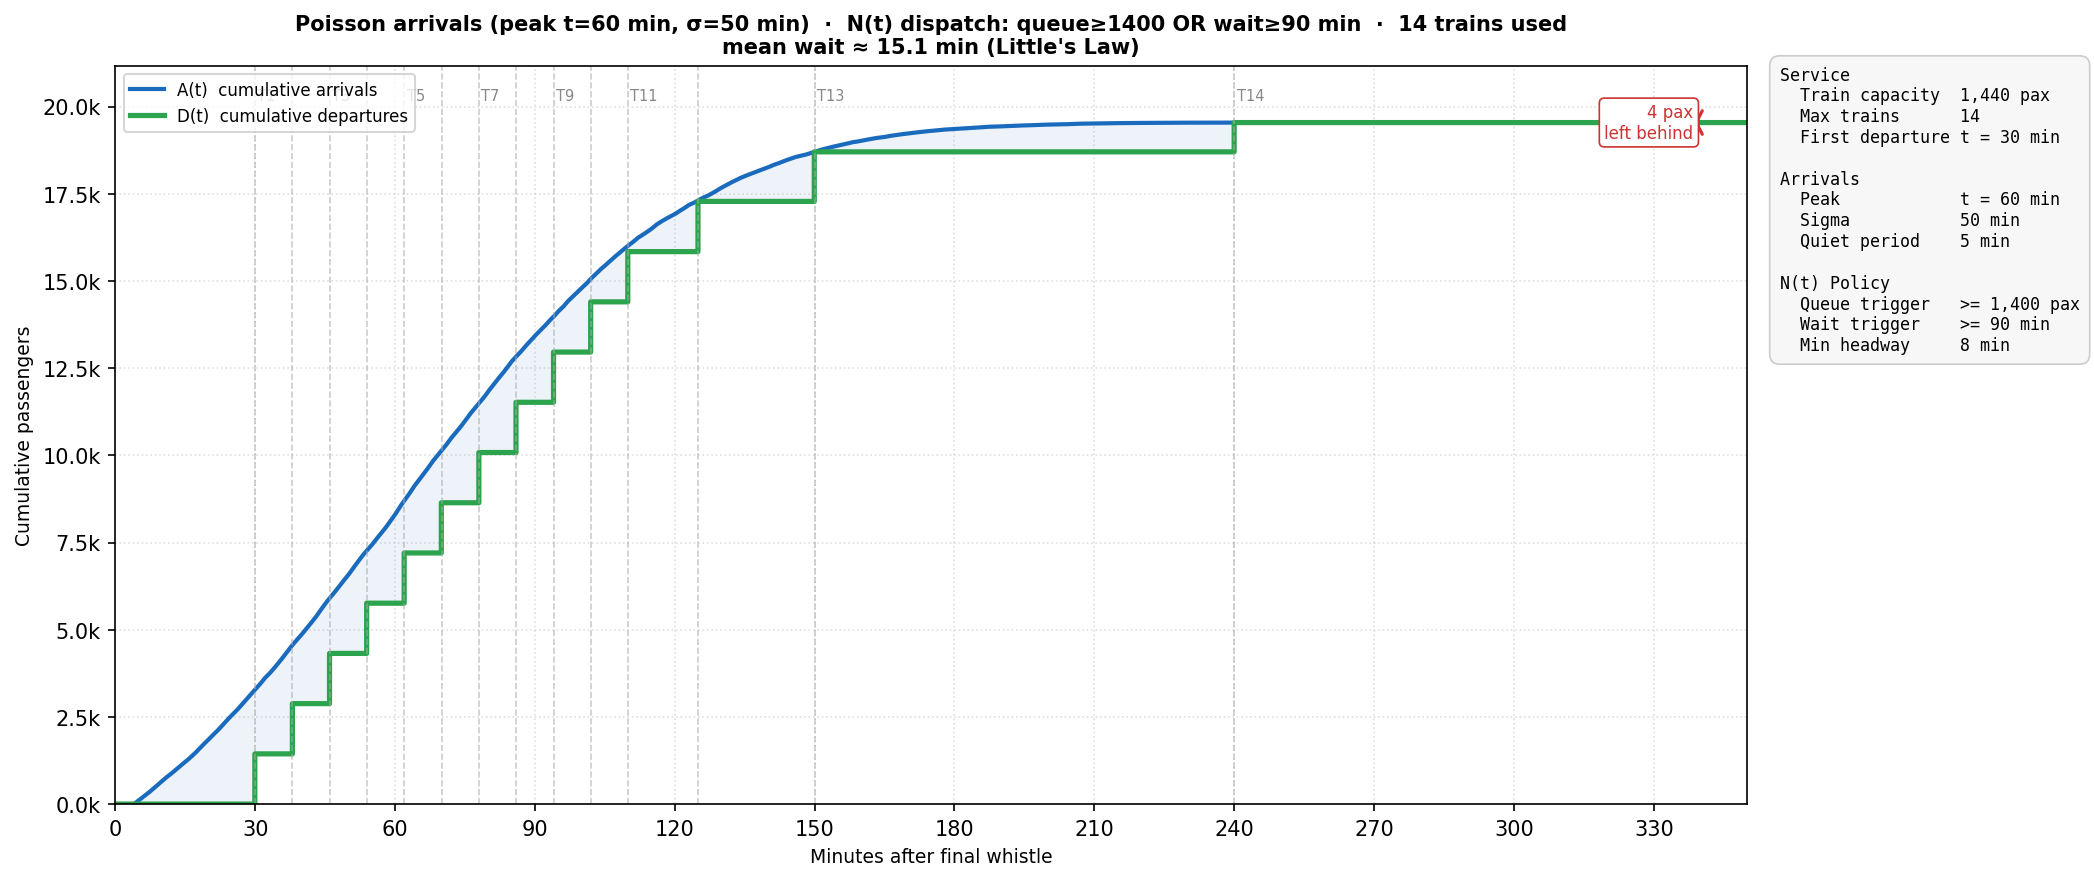
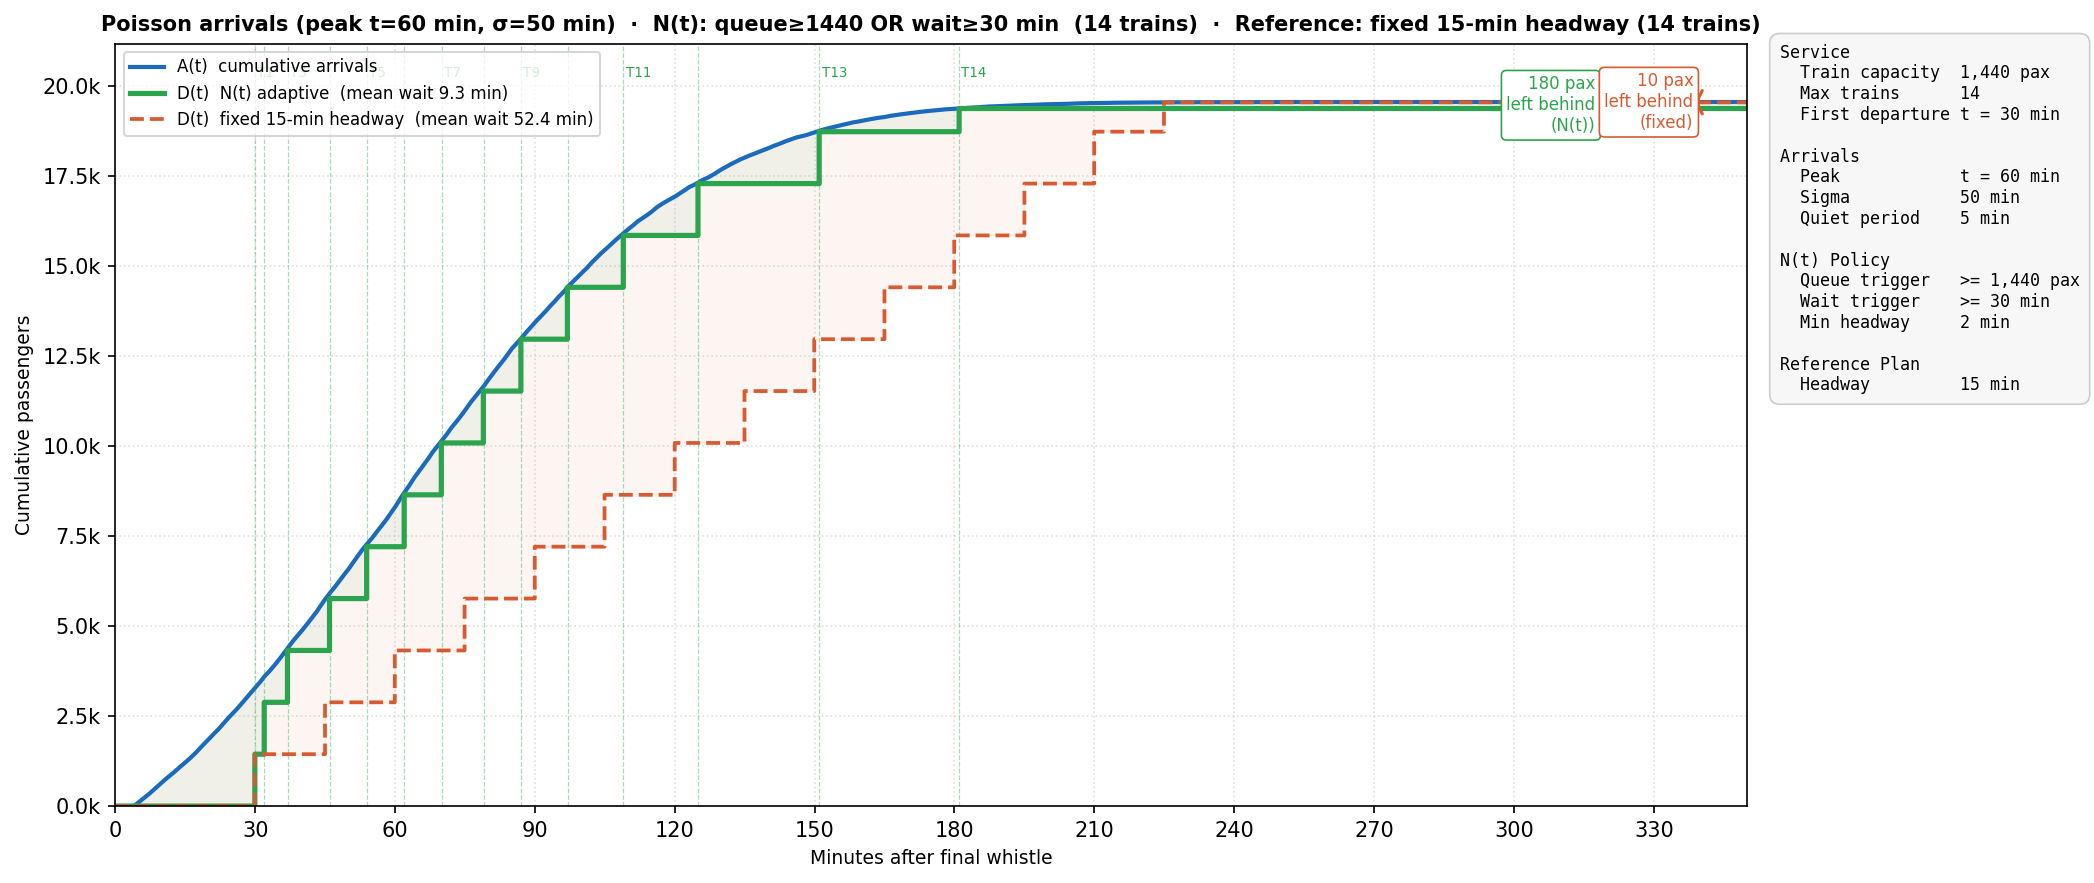
added comparison to fixed departures technique

diff --git a/foxboro_MG1_simulation.py b/foxboro_MG1_simulation.py
@@ -22,9 +22,12 @@ ARRIVAL_SIGMA     = 50     # spread (std dev) of the arrival surge in minutes
 ARRIVAL_QUIET_PERIOD  = 5      # minutes of near-zero arrivals right after whistle
 
 # N(t) dispatch policy
-NT_CAPACITY_THRESHOLD = 1400   # send a train if queue >= this many passengers
-NT_WAIT_THRESHOLD     = 90     # send a train if oldest passenger has waited >= this many minutes
-NT_MIN_HEADWAY        = 8      # minimum minutes between consecutive dispatches
+NT_CAPACITY_THRESHOLD = 1440   # send a train if queue >= this many passengers
+NT_WAIT_THRESHOLD     = 30     # send a train if oldest passenger has waited >= this many minutes
+NT_MIN_HEADWAY        = 2      # minimum minutes between consecutive dispatches
+
+# Fixed-headway reference (original plan)
+FIXED_HEADWAY         = 15     # minutes between trains in original plan
 
 # Simulation / plot
 RANDOM_SEED           = 42
@@ -34,7 +37,8 @@ OUTPUT_QUEUE_DEPTH    = "foxboro_queue_depth.png"
 
 # Colors
 COLOR_ARRIVAL         = "#1a6bbd"
-COLOR_DEPARTURE       = "#2ca44e"
+COLOR_NT              = "#2ca44e"
+COLOR_FIXED           = "#d85a30"
 COLOR_TRAIN_LINE      = "#aaaaaa"
 
 # =============================================================================
@@ -49,23 +53,26 @@ T                = np.linspace(0, T_MAX, 4000)
 # SIMULATION
 # =============================================================================
 
-def simulate():
+def draw_arrivals():
+    """Draw one Poisson arrival trace, shared by both simulations."""
     rng       = np.random.default_rng(RANDOM_SEED)
     t_minutes = np.arange(0, T_MAX + 1, dtype=float)
-
-    # Poisson rate lambda(t): normal surge shape scaled to expected total
     raw_shape = norm.pdf(t_minutes, ARRIVAL_PEAK, ARRIVAL_SIGMA)
     lam_t     = raw_shape / raw_shape.sum() * TOTAL_PASSENGERS
+    arrivals  = rng.poisson(lam_t)
+    arrivals[:ARRIVAL_QUIET_PERIOD] = 0
+    return arrivals
 
-    arrivals_per_min = rng.poisson(lam_t)
-    arrivals_per_min[:ARRIVAL_QUIET_PERIOD] = 0
+def simulate_nt(arrivals_per_min):
+    """N(t) adaptive dispatch policy."""
+    t_minutes = np.arange(0, T_MAX + 1, dtype=float)
 
     queue             = 0
     oldest_wait       = 0
     total_boarded     = 0
     trains_dispatched = 0
     last_dispatch     = -999
-    dispatch_log      = []   # list of (minute, cumulative_boarded)
+    dispatch_log      = []
     cum_arr_sim       = np.zeros(len(t_minutes))
 
     for tick in range(len(t_minutes)):
@@ -90,7 +97,7 @@ def simulate():
             oldest_wait        = 0
             dispatch_log.append((tick, total_boarded))
 
-    # A(t): interpolate cumulative arrivals onto fine grid
+    # A(t): interpolate — arrivals accumulate continuously
     cum_arr = np.interp(T, t_minutes, cum_arr_sim)
 
     # D(t): true step function — no interpolation
@@ -101,6 +108,31 @@ def simulate():
     mean_wait = np.trapezoid(np.maximum(cum_arr - cum_dep, 0), T) / max(total_boarded, 1)
 
     return cum_arr, cum_dep, dispatch_log, mean_wait, trains_dispatched
+
+def simulate_fixed(arrivals_per_min):
+    """Fixed-headway reference: one train every FIXED_HEADWAY min from FIRST_DEPARTURE."""
+    t_minutes     = np.arange(0, T_MAX + 1, dtype=float)
+    fixed_departs = [FIRST_DEPARTURE + i * FIXED_HEADWAY for i in range(NUM_TRAINS)]
+    cum_arr_sim   = np.cumsum(arrivals_per_min).astype(float)
+
+    total_boarded = 0
+    dispatch_log  = []
+
+    for d_time in fixed_departs:
+        tick    = int(d_time)
+        arrived = cum_arr_sim[min(tick, len(cum_arr_sim) - 1)]
+        boarded = min(arrived - total_boarded, TRAIN_CAPACITY)
+        total_boarded += boarded
+        dispatch_log.append((d_time, total_boarded))
+
+    cum_dep = np.zeros(len(T))
+    for d_time, cum_b in dispatch_log:
+        cum_dep[T >= d_time] = cum_b
+
+    cum_arr   = np.interp(T, t_minutes, cum_arr_sim)
+    mean_wait = np.trapezoid(np.maximum(cum_arr - cum_dep, 0), T) / max(total_boarded, 1)
+
+    return cum_dep, dispatch_log, mean_wait
 
 # =============================================================================
 # PLOTTING
@@ -122,6 +154,9 @@ def add_param_box(ax):
         ("  Queue trigger",   f">= {NT_CAPACITY_THRESHOLD:,} pax"),
         ("  Wait trigger",    f">= {NT_WAIT_THRESHOLD} min"),
         ("  Min headway",     f"{NT_MIN_HEADWAY} min"),
+        ("",                  ""),
+        ("Reference Plan",    ""),
+        ("  Headway",         f"{FIXED_HEADWAY} min"),
     ]
     text = "\n".join(f"{label:<18}{value}" for label, value in lines)
     ax.text(
@@ -132,37 +167,49 @@ def add_param_box(ax):
                   edgecolor="#cccccc", linewidth=0.8)
     )
 
-
-def plot_cumulative(cum_arr, cum_dep, dispatch_log, mean_wait, n_trains):
-    fig, ax = plt.subplots(figsize=(15, 6), facecolor="#ffffff")
-
-    ax.fill_between(T, cum_arr, cum_dep,
-                    where=(cum_arr >= cum_dep),
-                    color=COLOR_ARRIVAL, alpha=0.08)
-    ax.plot(T, cum_arr, color=COLOR_ARRIVAL,   lw=2,   label="A(t)  cumulative arrivals")
-    ax.step(T, cum_dep, color=COLOR_DEPARTURE, lw=2.5, label="D(t)  cumulative departures",
-            where="pre")
-
-    ylim_top = TOTAL_PASSENGERS * 1.05
-    for i, (td, _) in enumerate(dispatch_log):
-        ax.axvline(td, color=COLOR_TRAIN_LINE, lw=0.8, ls="--", alpha=0.6)
-        if i % 2 == 0 or i == len(dispatch_log) - 1:
-            ax.text(td + 0.5, ylim_top * 0.97, f"T{i+1}",
-                    fontsize=7, color="#888888", ha="left", va="top")
-            
-    # Callout: passengers left behind at end of service window
+def add_left_behind_callout(ax, cum_arr, cum_dep, color, x_frac, label):
     left_behind = int(round(cum_arr[-1] - cum_dep[-1]))
     if left_behind > 0:
-        y_arr = cum_arr[-1]
-        y_dep = cum_dep[-1]
-        x_callout = T_MAX * 0.97
+        y_arr     = cum_arr[-1]
+        y_dep     = cum_dep[-1]
+        x_callout = T_MAX * x_frac
         ax.annotate("", xy=(x_callout, y_dep), xytext=(x_callout, y_arr),
-                    arrowprops=dict(arrowstyle="<->", color="#cc3333", lw=1.5))
+                    arrowprops=dict(arrowstyle="<->", color=color, lw=1.5))
         ax.text(x_callout - 1, (y_arr + y_dep) / 2,
-                f"{left_behind:,} pax\nleft behind",
-                fontsize=8, color="#cc3333", ha="right", va="center",
+                f"{left_behind:,} pax\nleft behind\n({label})",
+                fontsize=8, color=color, ha="right", va="center",
                 bbox=dict(boxstyle="round,pad=0.3", facecolor="white",
-                          edgecolor="#cc3333", linewidth=0.8))
+                          edgecolor=color, linewidth=0.8))
+
+def plot_cumulative(cum_arr, cum_dep_nt, dispatch_log_nt, mean_wait_nt, n_trains_nt,
+                    cum_dep_fixed, dispatch_log_fixed, mean_wait_fixed):
+    fig, ax = plt.subplots(figsize=(15, 6), facecolor="#ffffff")
+
+    ylim_top = TOTAL_PASSENGERS * 1.05
+
+    # Shaded gaps
+    ax.fill_between(T, cum_arr, cum_dep_nt,
+                    where=(cum_arr >= cum_dep_nt),
+                    color=COLOR_NT, alpha=0.06)
+    ax.fill_between(T, cum_arr, cum_dep_fixed,
+                    where=(cum_arr >= cum_dep_fixed),
+                    color=COLOR_FIXED, alpha=0.06)
+
+    # Curves
+    ax.plot(T, cum_arr,       color=COLOR_ARRIVAL, lw=2,   label="A(t)  cumulative arrivals")
+    ax.step(T, cum_dep_nt,    color=COLOR_NT,      lw=2.5, label=f"D(t)  N(t) adaptive  (mean wait {mean_wait_nt:.1f} min)",    where="pre")
+    ax.step(T, cum_dep_fixed, color=COLOR_FIXED,   lw=1.8, label=f"D(t)  fixed {FIXED_HEADWAY}-min headway  (mean wait {mean_wait_fixed:.1f} min)", where="pre", ls="--")
+
+    # Train markers — N(t)
+    for i, (td, _) in enumerate(dispatch_log_nt):
+        ax.axvline(td, color=COLOR_NT, lw=0.6, ls="--", alpha=0.4)
+        if i % 2 == 0 or i == len(dispatch_log_nt) - 1:
+            ax.text(td + 0.5, ylim_top * 0.97, f"T{i+1}",
+                    fontsize=6.5, color=COLOR_NT, ha="left", va="top")
+
+    # Left-behind callouts — slightly offset so they don't overlap
+    add_left_behind_callout(ax, cum_arr, cum_dep_nt,    COLOR_NT,    0.91, "N(t)")
+    add_left_behind_callout(ax, cum_arr, cum_dep_fixed, COLOR_FIXED, 0.97, "fixed")
 
     ax.set_xlim(0, T_MAX)
     ax.set_ylim(0, ylim_top)
@@ -174,9 +221,8 @@ def plot_cumulative(cum_arr, cum_dep, dispatch_log, mean_wait, n_trains):
     ax.grid(True, ls=":", alpha=0.4)
     ax.set_title(
         f"Poisson arrivals (peak t={ARRIVAL_PEAK} min, σ={ARRIVAL_SIGMA} min)  ·  "
-        f"N(t) dispatch: queue≥{NT_CAPACITY_THRESHOLD} OR wait≥{NT_WAIT_THRESHOLD} min  ·  "
-        f"{n_trains} trains used\n"
-        f"mean wait ≈ {mean_wait:.1f} min (Little's Law)",
+        f"N(t): queue≥{NT_CAPACITY_THRESHOLD} OR wait≥{NT_WAIT_THRESHOLD} min  ({n_trains_nt} trains)  ·  "
+        f"Reference: fixed {FIXED_HEADWAY}-min headway ({NUM_TRAINS} trains)",
         fontsize=10, fontweight="bold"
     )
 
@@ -187,21 +233,26 @@ def plot_cumulative(cum_arr, cum_dep, dispatch_log, mean_wait, n_trains):
     print(f"Saved: {OUTPUT_CUMULATIVE}")
 
 
-def plot_queue_depth(cum_arr, cum_dep):
-    Q = np.maximum(cum_arr - cum_dep, 0)
+def plot_queue_depth(cum_arr, cum_dep_nt, cum_dep_fixed, mean_wait_nt, mean_wait_fixed):
+    Q_nt    = np.maximum(cum_arr - cum_dep_nt,    0)
+    Q_fixed = np.maximum(cum_arr - cum_dep_fixed, 0)
 
-    fig, ax = plt.subplots(figsize=(13, 5), facecolor="#ffffff")
-    ax.plot(T, Q, color=COLOR_DEPARTURE, lw=2, label="Q(t)  queue depth")
-    ax.fill_between(T, Q, alpha=0.10, color=COLOR_DEPARTURE)
+    fig, ax = plt.subplots(figsize=(15, 5), facecolor="#ffffff")
 
-    peak_idx = np.argmax(Q)
-    ax.annotate(
-        f"peak {Q[peak_idx]:.0f} pax @ t={T[peak_idx]:.0f} min",
-        xy=(T[peak_idx], Q[peak_idx]),
-        xytext=(T[peak_idx] + 12, Q[peak_idx] + 200),
-        fontsize=8, color=COLOR_DEPARTURE,
-        arrowprops=dict(arrowstyle="->", color=COLOR_DEPARTURE, lw=0.9)
-    )
+    ax.plot(T, Q_nt,    color=COLOR_NT,    lw=2,   label=f"N(t) adaptive  (mean wait {mean_wait_nt:.1f} min)")
+    ax.plot(T, Q_fixed, color=COLOR_FIXED, lw=1.8, label=f"Fixed {FIXED_HEADWAY}-min headway  (mean wait {mean_wait_fixed:.1f} min)", ls="--")
+    ax.fill_between(T, Q_nt,    alpha=0.08, color=COLOR_NT)
+    ax.fill_between(T, Q_fixed, alpha=0.08, color=COLOR_FIXED)
+
+    for Q, color, label in [(Q_nt, COLOR_NT, "N(t)"), (Q_fixed, COLOR_FIXED, "fixed")]:
+        peak_idx = np.argmax(Q)
+        ax.annotate(
+            f"{label} peak\n{Q[peak_idx]:.0f} pax @ t={T[peak_idx]:.0f} min",
+            xy=(T[peak_idx], Q[peak_idx]),
+            xytext=(T[peak_idx] + 10, Q[peak_idx] + 200),
+            fontsize=8, color=color,
+            arrowprops=dict(arrowstyle="->", color=color, lw=0.9)
+        )
 
     ax.set_xlim(0, T_MAX)
     ax.set_ylim(0)
@@ -211,7 +262,8 @@ def plot_queue_depth(cum_arr, cum_dep):
     ax.xaxis.set_major_locator(mticker.MultipleLocator(30))
     ax.legend(fontsize=9)
     ax.grid(True, ls=":", alpha=0.4)
-    ax.set_title("Queue Depth  Q(t) = A(t) − D(t)", fontsize=11, fontweight="bold")
+    ax.set_title("Queue Depth  Q(t) = A(t) − D(t)  |  N(t) vs Fixed-Headway",
+                 fontsize=11, fontweight="bold")
 
     plt.tight_layout()
     plt.savefig(OUTPUT_QUEUE_DEPTH, dpi=150, bbox_inches="tight")
@@ -223,6 +275,11 @@ def plot_queue_depth(cum_arr, cum_dep):
 # =============================================================================
 
 if __name__ == "__main__":
-    cum_arr, cum_dep, dispatch_log, mean_wait, n_trains = simulate()
-    plot_cumulative(cum_arr, cum_dep, dispatch_log, mean_wait, n_trains)
-    plot_queue_depth(cum_arr, cum_dep)
+    arrivals = draw_arrivals()
+
+    cum_arr, cum_dep_nt, log_nt, mw_nt, n_trains_nt = simulate_nt(arrivals)
+    cum_dep_fixed, log_fixed, mw_fixed               = simulate_fixed(arrivals)
+
+    plot_cumulative(cum_arr, cum_dep_nt, log_nt, mw_nt, n_trains_nt,
+                    cum_dep_fixed, log_fixed, mw_fixed)
+    plot_queue_depth(cum_arr, cum_dep_nt, cum_dep_fixed, mw_nt, mw_fixed)
